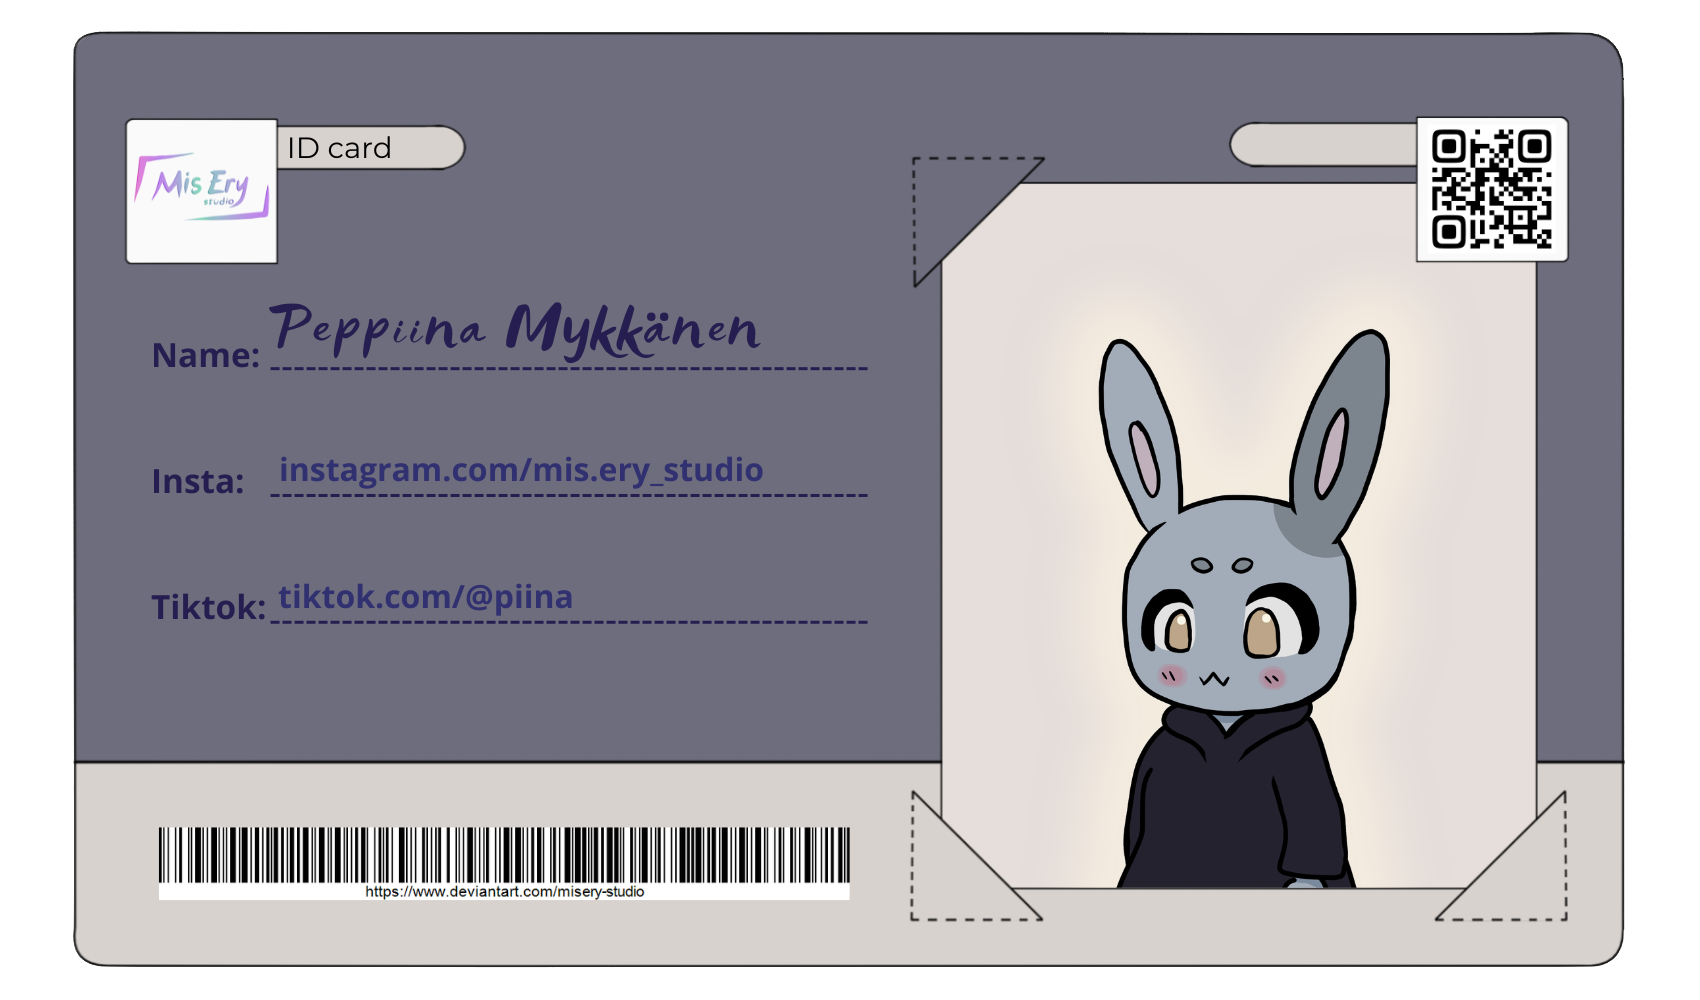
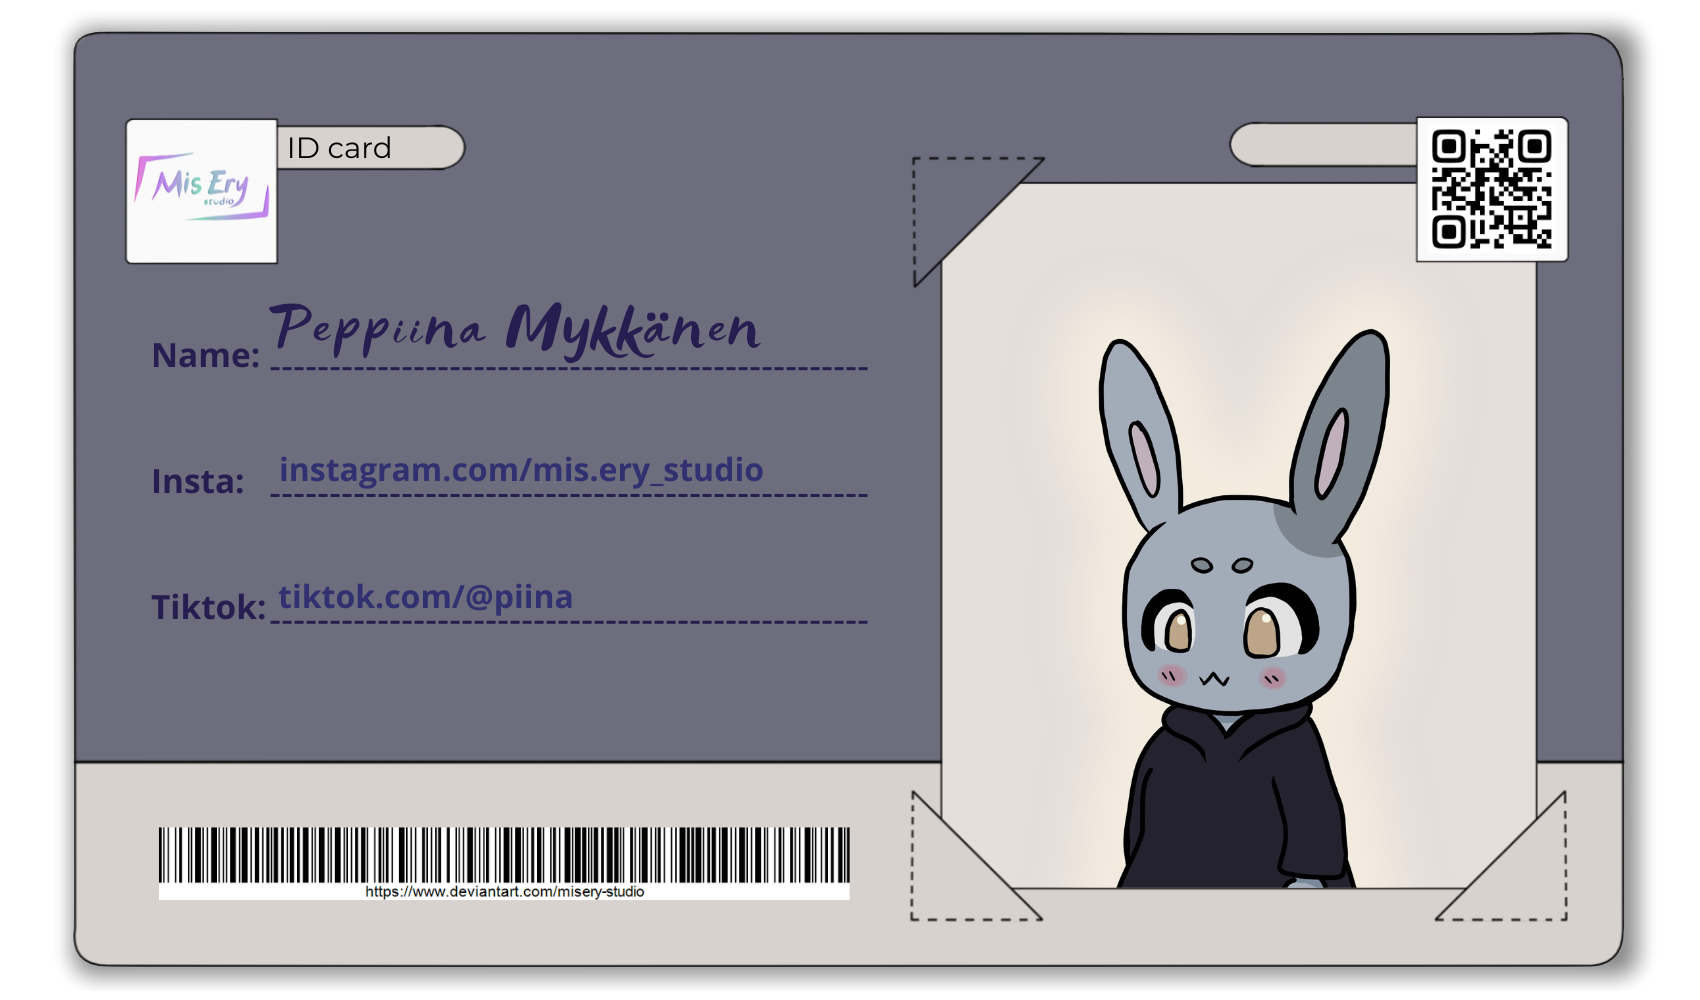
size changes pt2

Changed region(s): [[0.0312, 0.0, 0.9665, 0.992]]

diff --git a/About_me.html b/About_me.html
@@ -23,30 +23,30 @@
     </div> 
     <button class="openbtn" onclick="openNav()">☰</button>  
    <!-- ------ -->
-    <img class="id-card" src="images/about_me/Id_card%20(1).png" />
+    <img class="id-card" src="images/about_me/Id_card%20(1).png"/>
      
       <img class="clipboard" src="images/about_me/info_file.png"/>
       <!-- TEXT -->
-      <div style="width: 294.1px; height: 66.3px; left: 190.4px; top: 244.76px; position: absolute; transform: rotate(-13deg); transform-origin: top left; color: #4D1E9E; font-size: 30.6px; font-family: JejuHallasan; font-weight: 400; line-height: 64.12px; word-wrap: break-word">
+      <div style="width:15%; left:12%; top:25%; position: absolute; transform: rotate(-13deg); transform-origin: top left; color: #4D1E9E; font-size: 1.7vw; font-family: JejuHallasan; font-weight: 400; line-height: 64.12px; word-wrap: break-word">
       Peppiina Mykkänen 
       </div>
-      <div style="width: 492.52px; height: 104.33px; left: 213.35px; top: 338.49px; position: absolute; transform: rotate(-13deg); transform-origin: top left; color: #4D1E9E; font-size: 30.6px; font-family: JejuHallasan; font-weight: 400; line-height: 55.39px; word-wrap: break-word">
+      <div style="width:15%; left:13%; top:36%; position: absolute; transform: rotate(-13deg); transform-origin: top left; color: #4D1E9E; font-size: 1.7vw; font-family: JejuHallasan; font-weight: 400; line-height: 55.39px; word-wrap: break-word">
       IT-engineer
       </div>
-      <div style="width: 430.08px; height: 104.33px; left: 294.53px; top: 383.74px; position: absolute; transform: rotate(-13deg); transform-origin: top left; color: #0C2D58; font-size: 20.4px; font-family: JejuHallasan; font-weight: 400; line-height: 41.41px; word-wrap: break-word">
+      <div style="width:25%; left:13.5%; top:42.5%; position: absolute; transform: rotate(-13deg); transform-origin: top left; color: #0C2D58; font-size: 1vw; font-family: JejuHallasan; font-weight: 400; line-height: 41.41px; word-wrap: break-word">
       Coding, Program development, web desing, game development
       </div> 
-      <div style="width: 430.08px; height: 104.33px; left: 374px; top: 712.69px; position: absolute; transform: rotate(-13deg); transform-origin: top left; color: #0C2D58; font-size: 20.4px; font-family: JejuHallasan; font-weight: 400; line-height: 41.41px; word-wrap: break-word">
-      Skills in marketing, digital marketing, customer service and consulting
-      </div>
-      <div style="width: 430.08px; height: 47.17px; left: 340.85px; top: 568.19px; position: absolute; transform: rotate(-13deg); transform-origin: top left; color: #0C2D58; font-size: 20.4px; font-family: JejuHallasan; font-weight: 400; line-height: 41.41px; word-wrap: break-word">
-      Art, Brand design, layout design
-      </div>
-      <div style="width: 492.52px; height: 45.48px; left: 247.35px; top: 527.19px; position: absolute; transform: rotate(-13deg); transform-origin: top left; color: #4D1E9E; font-size: 30.6px; font-family: JejuHallasan; font-weight: 400; line-height: 55.39px; word-wrap: break-word">
+      <div style="width:15%; left:15%; top:57%; position: absolute; transform: rotate(-13deg); transform-origin: top left; color: #4D1E9E; font-size: 1.7vw; font-family: JejuHallasan; font-weight: 400; line-height: 55.39px; word-wrap: break-word">
       Graphic Designer
       </div>
-      <div style="width: 492.52px; height: 45.48px; left: 280.5px; top: 673.39px; position: absolute; transform: rotate(-13deg); transform-origin: top left; color: #4D1E9E; font-size: 30.6px; font-family: JejuHallasan; font-weight: 400; line-height: 55.39px; word-wrap: break-word">
+      <div style="width:25%; left:16%; top:63.5%; position: absolute; transform: rotate(-13deg); transform-origin: top left; color: #0C2D58; font-size:1vw; font-family: JejuHallasan; font-weight: 400; line-height: 41.41px; word-wrap: break-word">
+      Art, Brand design, layout design
+      </div>
+      <div style="width:15%; left:17%; top:73%; position: absolute; transform: rotate(-13deg); transform-origin: top left; color: #4D1E9E; font-size: 1.7vw; font-family: JejuHallasan; font-weight: 400; line-height: 55.39px; word-wrap: break-word">
       Also . . .
+      </div>
+      <div style="width:25%; left:18%; top:79%; position: absolute; transform: rotate(-13deg); transform-origin: top left; color: #0C2D58; font-size:1vw; font-family: JejuHallasan; font-weight: 400; line-height: 41.41px; word-wrap: break-word">
+      Skills in marketing, digital marketing, customer service and consulting
       </div>
     
     <div class="back-button">

diff --git a/main.css b/main.css
@@ -280,24 +280,23 @@ html, body {
 /* --- ABOUT ME PAGE --- */
 
 .clipboard {
-  width: 892.98px;     
-  height: 1192.91px;
-  left: -75px; 
-  top: 59.71px; 
+  width: 50%;     
+  height: auto;
+  left: -2%; 
+  top: 8%; 
   position: absolute; 
   transform: rotate(-13deg); 
   transform-origin: top left
 }
 .id-card { 
-  width: 717px;
-  height: 422px;
-  left: 1134.44px; 
-  top: 30px; 
+  width: 35%;
+  height: auto;
+  left: 60%; 
+  top: 5%; 
   position: absolute; 
   
   transform: rotate(9deg); 
-  transform-origin: top left; 
-  box-shadow: -1px 2px 19.299999237060547px -17px rgba(0, 0, 0, 0.25)
+  transform-origin: top left;
 }
 
 /* -------------------------------------------------------------------------------------------- */
